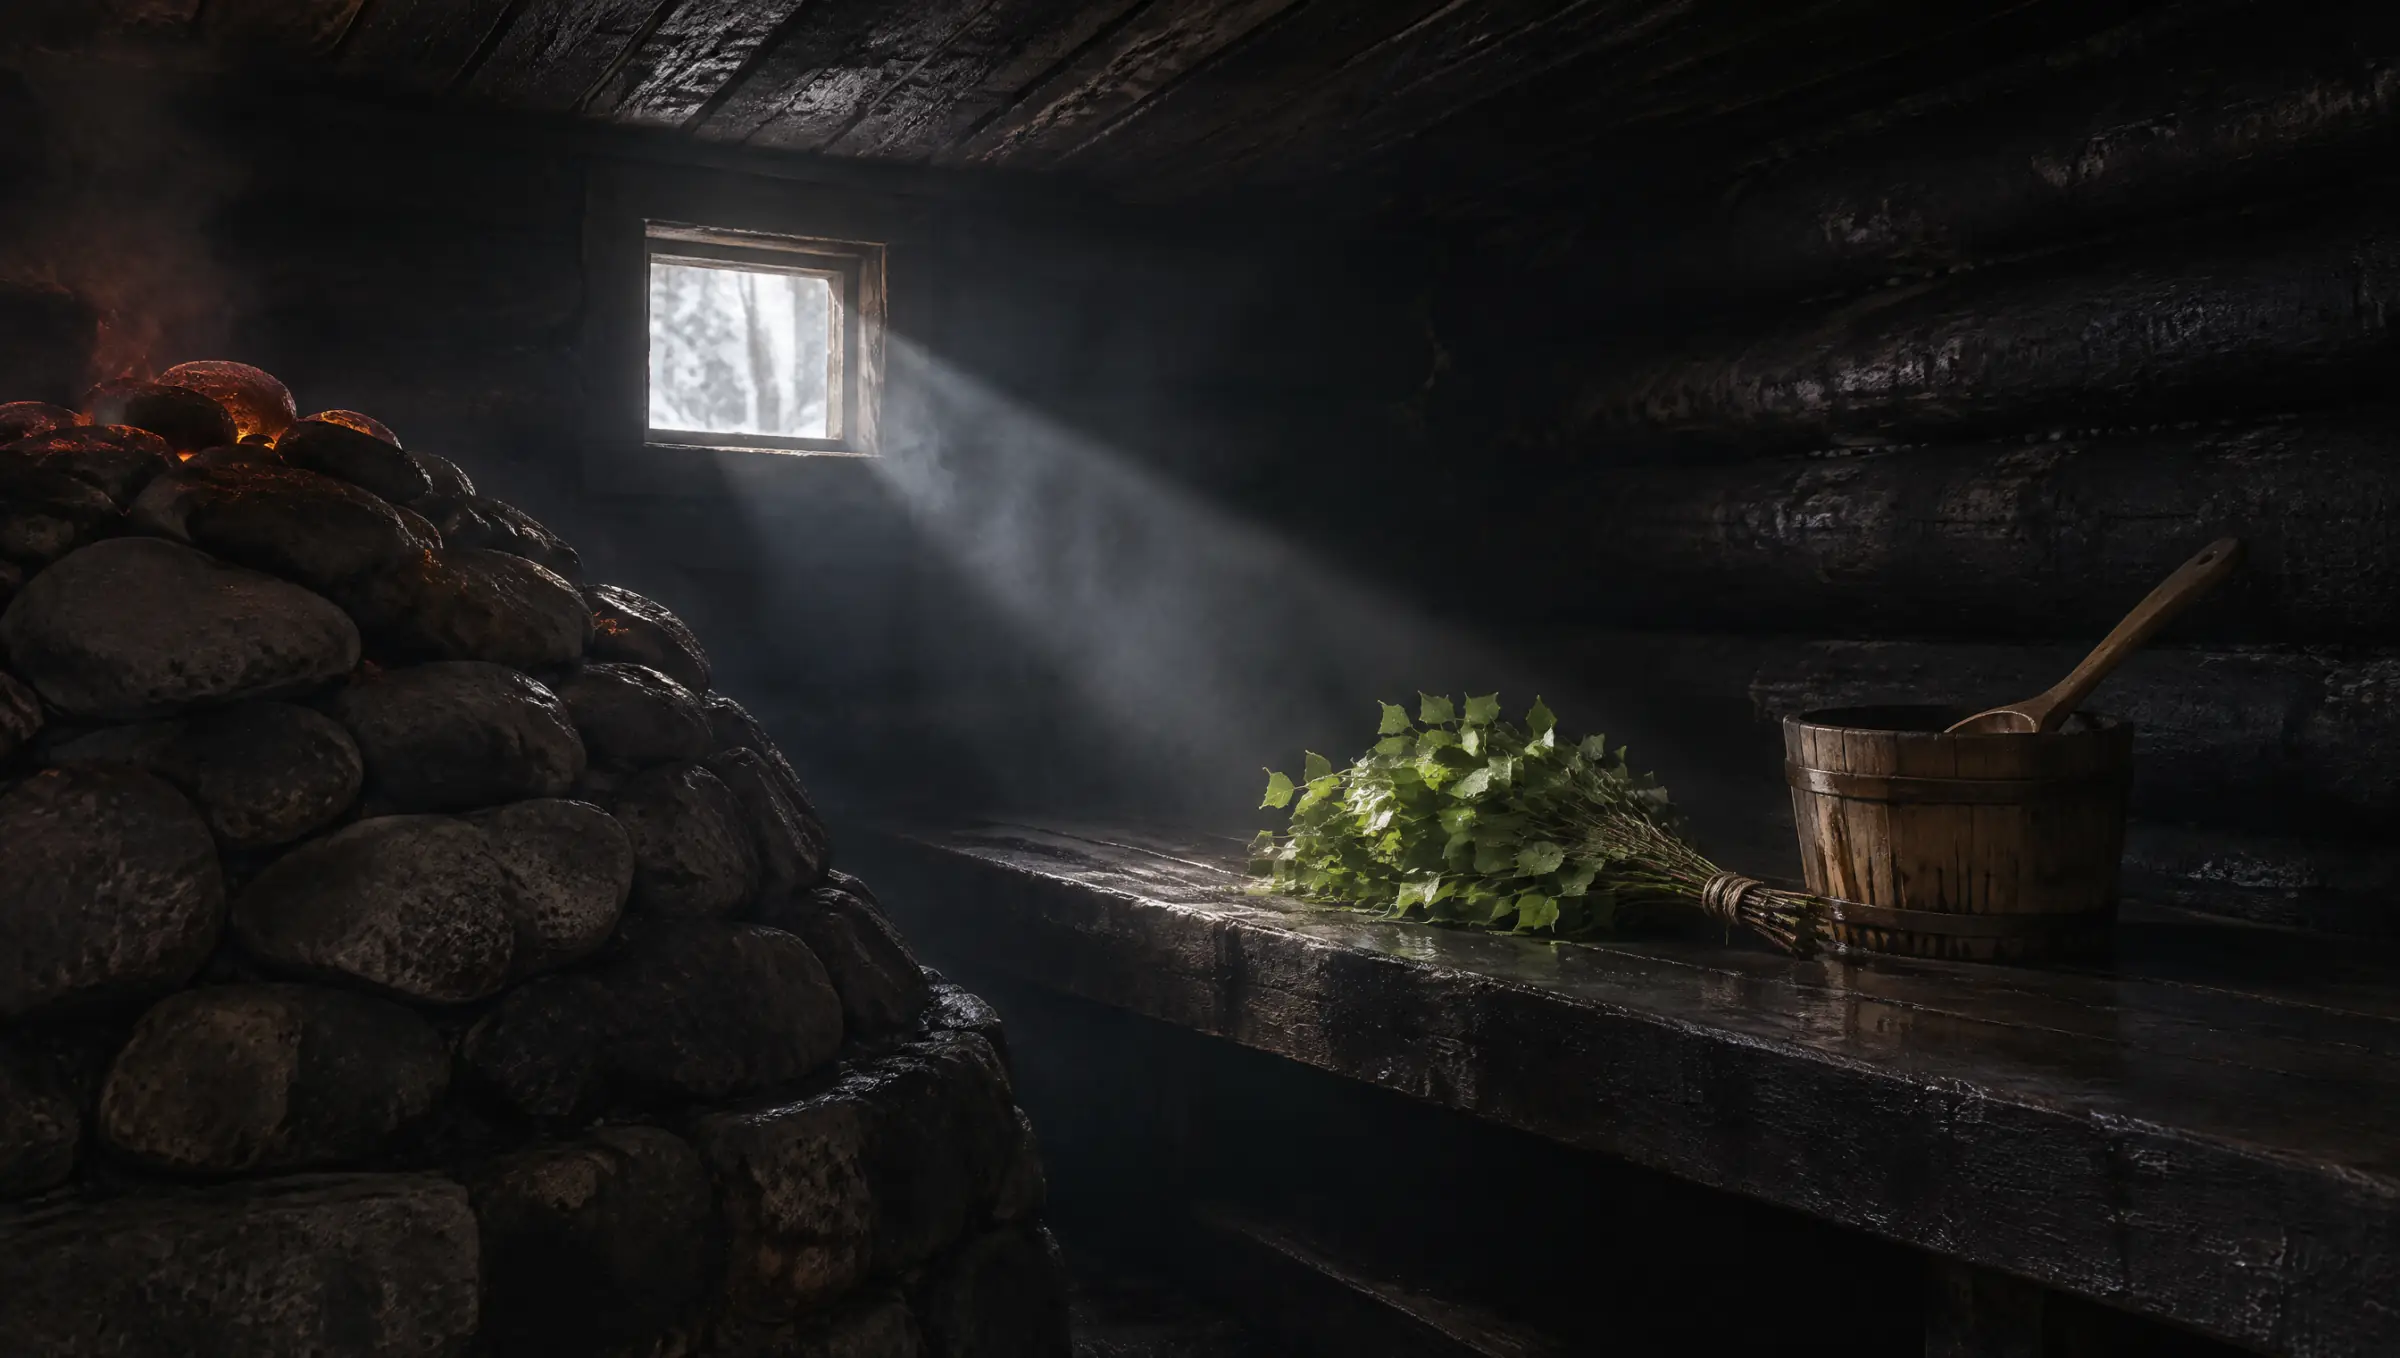
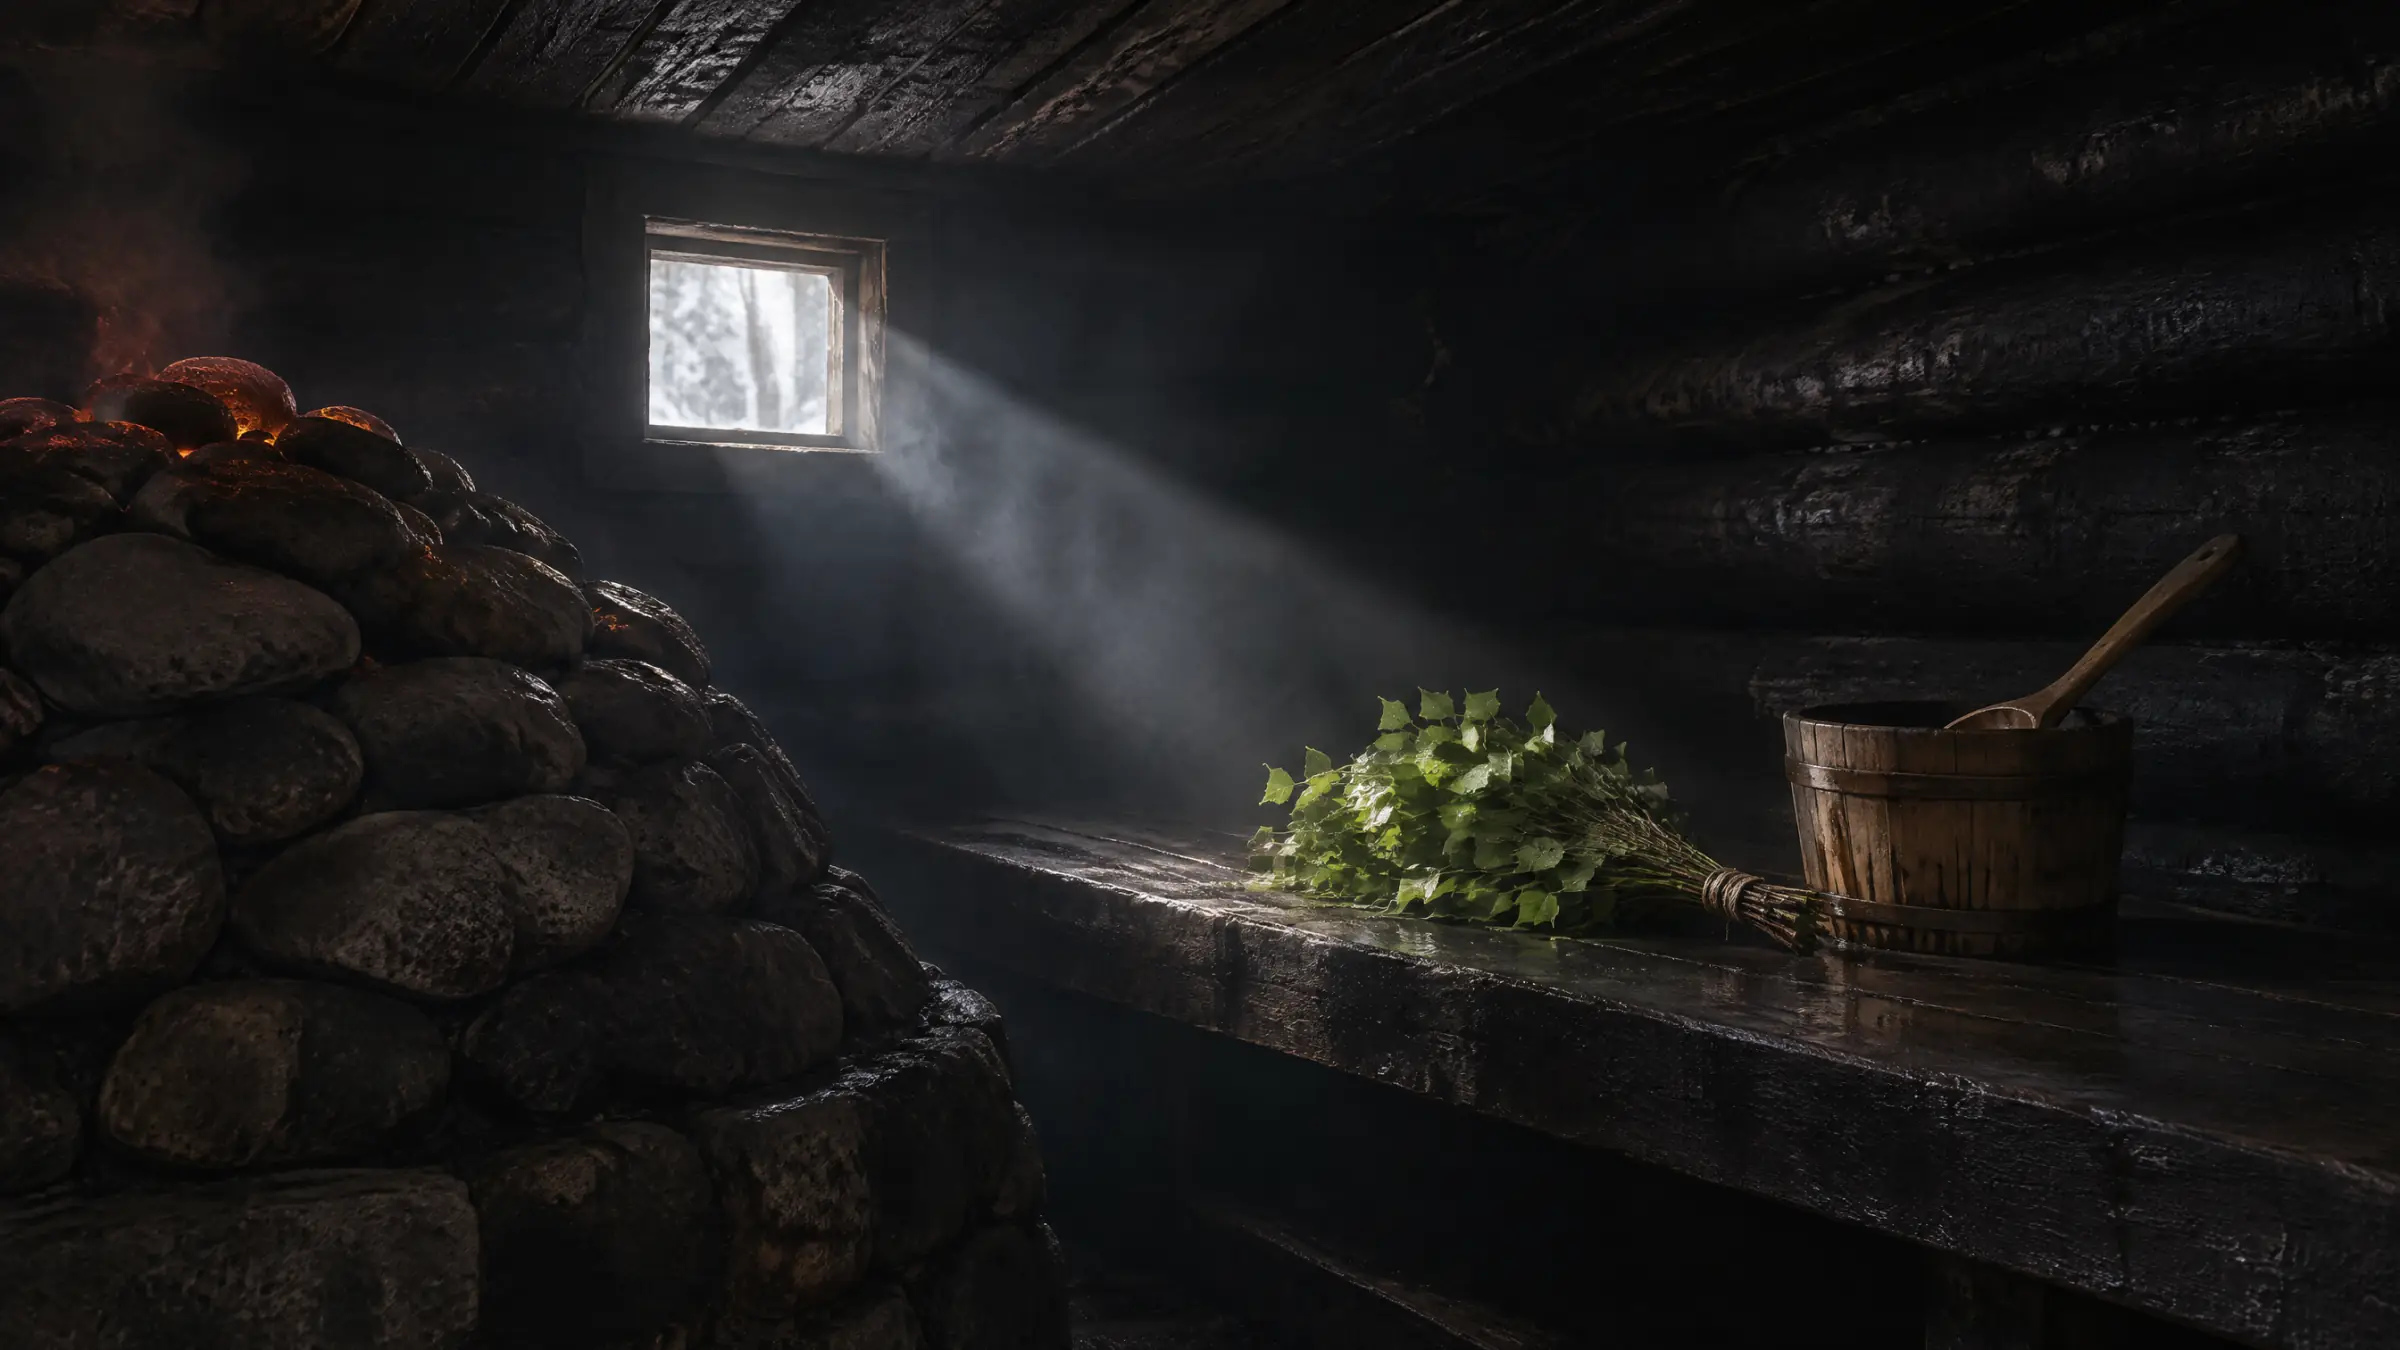
Fix reduced-motion ink and wordmark fade on Suodis, match stills to 16:9

diff --git a/suodis/suodis.js b/suodis/suodis.js
@@ -1,6 +1,7 @@
 (() => {
   const root = document.documentElement;
   const reduce = window.matchMedia("(prefers-reduced-motion: reduce)");
+  const coarse = window.matchMedia("(pointer: coarse)");
   const canvas = document.querySelector(".film");
   const ctx = canvas.getContext("2d", { alpha: false });
   const track = document.querySelector(".track");
@@ -43,7 +44,7 @@
     canvas.width = Math.round(W * dpr); canvas.height = Math.round(H * dpr);
     ctx.setTransform(dpr, 0, 0, dpr, 0, 0);
     ctx.imageSmoothingQuality = "high";
-    if (W !== lastWidth || !vh) { vh = H / 100; lastWidth = W; track.style.height = TOTAL * vh + "px"; }
+    if (W !== lastWidth || !vh || !coarse.matches) { vh = H / 100; lastWidth = W; track.style.height = TOTAL * vh + "px"; }
     request();
   };
 
@@ -198,7 +199,7 @@
     if (reduce.matches) {
       const c = seg.clip ?? (p < 0.5 ? SEGS[s - 1].clip : SEGS[s + 1].clip);
       paint(stills[c], c);
-      if (s === 5 && p < 0.5) steamWhite(0.6);
+      if (s === 5 && p < 0.5) steamWhite(0.85);
     } else if (seg.clip !== undefined) clip(seg.clip, p);
     else if (seg.kind === "window") throughWindow(p);
     else if (seg.kind === "stones") intoStones(p);
@@ -209,13 +210,14 @@
 
     if (s === 0) {
       const k = smooth(0.04, 0.5, p);
-      if (!reduce.matches) letters.forEach((el, i) => {
-        const lift = k * (60 + i * 26);
-        el.style.transform = k ? "translate3d(" + (k * (i - 2) * 6).toFixed(1) + "px," + (-lift).toFixed(1) + "px,0)" : "";
-        el.style.filter = k ? "blur(" + (k * (10 + i * 3)).toFixed(1) + "px)" : "";
-        el.style.opacity = (1 - smooth(0.06 + i * 0.03, 0.42 + i * 0.03, p)).toFixed(3);
+      const ready = root.classList.contains("is-ready");
+      letters.forEach((el, i) => {
+        const drift = reduce.matches ? 0 : k;
+        el.style.transform = drift ? "translate3d(" + (drift * (i - 2) * 6).toFixed(1) + "px," + (-drift * (60 + i * 26)).toFixed(1) + "px,0)" : "";
+        el.style.filter = drift ? "blur(" + (drift * (10 + i * 3)).toFixed(1) + "px)" : "";
+        el.style.opacity = ready ? (1 - smooth(0.06 + i * 0.03, 0.42 + i * 0.03, p)).toFixed(3) : "";
       });
-      heroFade.forEach((el) => (el.style.opacity = root.classList.contains("is-ready") ? (1 - smooth(0.02, 0.2, p)).toFixed(3) : ""));
+      heroFade.forEach((el) => (el.style.opacity = ready ? (1 - smooth(0.02, 0.2, p)).toFixed(3) : ""));
       root.classList.toggle("is-moving", k > 0);
       hero.style.visibility = "";
     } else {
@@ -238,7 +240,8 @@
     if (whereEl.textContent !== where) whereEl.textContent = where;
     gauge.style.opacity = (1 - smooth(0, 0.4, past / H)).toFixed(3);
 
-    root.classList.toggle("is-light", lightAt(s, p) > 0.5 && past < 0);
+    const light = reduce.matches ? s === 5 && p < 0.5 : lightAt(s, p) > 0.5;
+    root.classList.toggle("is-light", light && past < 0);
     if (current !== target) request();
   };
   function request() { if (!frame) frame = requestAnimationFrame(render); }

diff --git a/index.html b/index.html
@@ -75,7 +75,7 @@
           <span class="plate-cap"><b>06</b><span>Low Water</span><i>Brand on the tide</i></span>
         </a>
         <a class="plate" href="#suodis" style="--i: 6" data-plate data-name="Suodis">
-          <span class="plate-frame plate-suodis"><img src="suodis/img/s2-interior.webp" alt="" width="2400" height="1357" loading="lazy"></span>
+          <span class="plate-frame plate-suodis"><img src="suodis/img/s2-interior.webp" alt="" width="2400" height="1350" loading="lazy"></span>
           <span class="plate-cap"><b>07</b><span>Suodis</span><i>Scroll film</i></span>
         </a>
       </nav>
@@ -270,7 +270,7 @@
       </article>
 
       <article class="project project-suodis" id="suodis" data-project data-index="07" data-name="Suodis">
-        <a class="shell project-link" href="suodis/" data-ground="#0d1017" data-ink="#f3efe8" aria-label="Open Suodis, a smoke sauna on a frozen lake told as one scroll">
+        <a class="shell project-link" href="suodis/" data-ground="#050506" data-ink="#f3efe8" aria-label="Open Suodis, a smoke sauna on a frozen lake told as one scroll">
           <div class="project-info">
             <div class="project-body">
               <div class="project-heading">

diff --git a/suodis/index.html b/suodis/index.html
@@ -94,7 +94,7 @@ a{color:inherit}
 .is-ready .curtain{opacity:0;visibility:hidden}
 .word span{transform:translateY(.35em);opacity:0;transition:transform 1.4s var(--ease), opacity 1.2s var(--ease)}
 .is-ready .word span{transform:none;opacity:1}
-.is-ready.is-moving .word span{transition:none}
+.is-ready.is-moving .word span,.is-ready.is-moving .hero-line,.is-ready.is-moving .cue{transition:none}
 .hero-line,.cue{opacity:0;transition:opacity 1s .6s}
 .is-ready .hero-line,.is-ready .cue{opacity:1}
 

diff --git a/DESIGN-DNA.md b/DESIGN-DNA.md
@@ -37,7 +37,7 @@ the colophon line true: the only colour on the page is the work's own.
 - **Host Grotesk** for everything functional: specs, captions, the header.
 
 Neither font appears in any of the pieces, so the index never looks like
-a seventh piece.
+one more piece.
 
 The statement is a sentence that doubles as the index. Each of its terms
 ("an instrument", "two films") carries the number of its plate as a small
